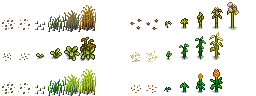
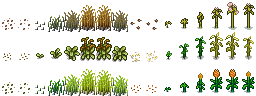
regrow option works

diff --git a/Byproducts/Byproducts/obj/Debug/net6.0/Byproducts.AssemblyInfo.cs b/Byproducts/Byproducts/obj/Debug/net6.0/Byproducts.AssemblyInfo.cs
@@ -13,7 +13,7 @@ using System.Reflection;
 [assembly: System.Reflection.AssemblyCompanyAttribute("Byproducts")]
 [assembly: System.Reflection.AssemblyConfigurationAttribute("Debug")]
 [assembly: System.Reflection.AssemblyFileVersionAttribute("1.0.0.0")]
-[assembly: System.Reflection.AssemblyInformationalVersionAttribute("1.0.0+6961e0e371f3072f8e2179d00eb89561f8af7739")]
+[assembly: System.Reflection.AssemblyInformationalVersionAttribute("1.0.0+1cf3402c13a8a27f4cfda4562c548c290f0dc1cd")]
 [assembly: System.Reflection.AssemblyProductAttribute("Byproducts")]
 [assembly: System.Reflection.AssemblyTitleAttribute("Byproducts")]
 [assembly: System.Reflection.AssemblyVersionAttribute("1.0.0.0")]

diff --git a/GrainsOverhull/README.md b/GrainsOverhull/README.md
@@ -18,7 +18,7 @@ Simple Grain Mod for Stardew Valley!
 
 Install SMAPI  
 Install Content Patcher  
-Install Multi Yield Crops (Optional)  
+Install SpaceCore (Optional)  
 Install Generic Mod Config Menu (Optional)  
   
 2. Download Grains Overhull 
@@ -26,6 +26,5 @@ Install Generic Mod Config Menu (Optional)
 3. Extract the following folders from the downloaded zip file into your Mods folder:  
 
 [CP] Grains Overhull  
-[MYC] Grains Overhull Extra Crop Drops (Optional) - buckwheat will drop seeds on harvest along with the harvested flower, like sunflowers.  
   
 [To Uninstall, remove any of the 6 crops from the field, trash any of the items and seeds in your inventory, and then delete the two mod folders extracted into the Mods folder.]
